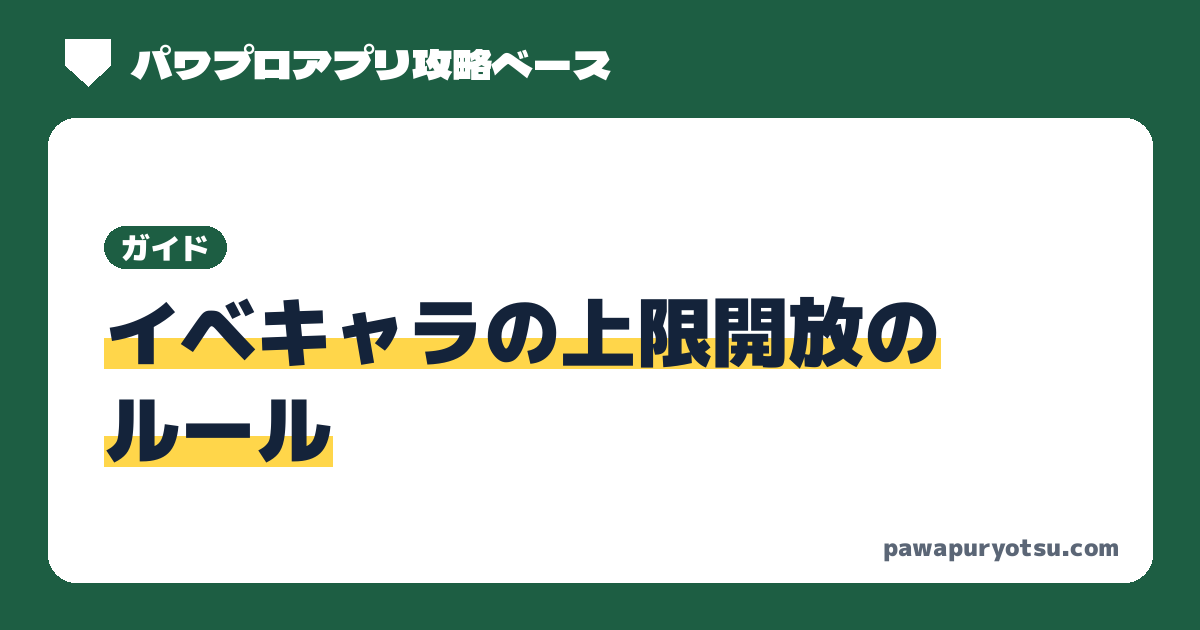
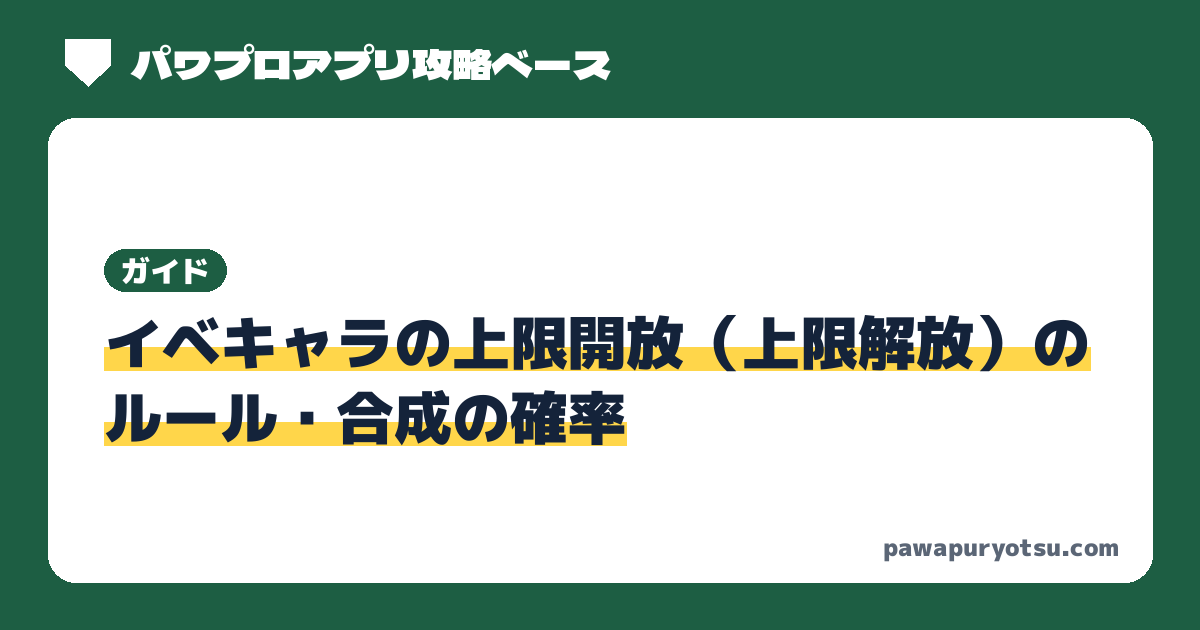
デッキページのタイトルに【○月最新】、上限開放ページのタイトルに「上限解放」
Search Consoleでデッキ系の検索のクリック率が低く、上限開放ページは「上限解放」で検索されていたため。
【○月最新】はいちばん新しいデッキの日付の月を自動で入れる。

Claude-Session: https://claude.ai/code/session_019YJeSy1JHzrrLH19o4aZd4

Changed region(s): [[0.0617, 0.3317, 0.925, 0.754]]

diff --git a/docs/guide/limit_break/index.html b/docs/guide/limit_break/index.html
@@ -4,13 +4,13 @@
 <meta charset="utf-8">
 <meta name="viewport" content="width=device-width,initial-scale=1,viewport-fit=cover">
 <meta name="color-scheme" content="light">
-<title>イベキャラの上限開放のルール｜パワプロアプリ攻略ベース</title>
-<meta name="description" content="パワプロアプリのイベキャラの上限開放のルールをまとめました。SR・PSRのLv上限と、素材のレアリティ・上限開放の数ごとの合成の確率を一覧で掲載。">
+<title>イベキャラの上限開放（上限解放）のルール・合成の確率｜パワプロアプリ攻略ベース</title>
+<meta name="description" content="パワプロアプリのイベキャラの上限開放（上限解放）のルールをまとめました。SR・PSRのLv上限と、素材のレアリティ・上限開放の数ごとの合成の確率を一覧で掲載。">
 <link rel="canonical" href="https://pawapuryotsu.com/guide/limit_break/">
 <meta property="og:type" content="website">
 <meta property="og:site_name" content="パワプロアプリ攻略ベース">
-<meta property="og:title" content="イベキャラの上限開放のルール｜パワプロアプリ攻略ベース">
-<meta property="og:description" content="パワプロアプリのイベキャラの上限開放のルールをまとめました。SR・PSRのLv上限と、素材のレアリティ・上限開放の数ごとの合成の確率を一覧で掲載。">
+<meta property="og:title" content="イベキャラの上限開放（上限解放）のルール・合成の確率｜パワプロアプリ攻略ベース">
+<meta property="og:description" content="パワプロアプリのイベキャラの上限開放（上限解放）のルールをまとめました。SR・PSRのLv上限と、素材のレアリティ・上限開放の数ごとの合成の確率を一覧で掲載。">
 <meta property="og:url" content="https://pawapuryotsu.com/guide/limit_break/">
 <meta property="og:image" content="https://pawapuryotsu.com/img/og/guide_limit_break.png">
 <meta property="og:image:width" content="1200">
@@ -29,7 +29,7 @@
 <script async src="https://pagead2.googlesyndication.com/pagead/js/adsbygoogle.js?client=ca-pub-8546020269968696" crossorigin="anonymous"></script>
 <script async src="https://www.googletagmanager.com/gtag/js?id=G-F98XGNW3LS"></script>
 <script>window.dataLayer=window.dataLayer||[];function gtag(){dataLayer.push(arguments)}gtag('js',new Date());gtag('config','G-F98XGNW3LS');</script><meta name="google-site-verification" content="ZgxID967oum-2Mm1F5BCX9gvQE_vNl2ZDbXXWfyYP10" />
-<script type="application/ld+json">{"@context": "https://schema.org", "@type": "BreadcrumbList", "itemListElement": [{"@type": "ListItem", "position": 1, "name": "トップ", "item": "https://pawapuryotsu.com/"}, {"@type": "ListItem", "position": 2, "name": "イベキャラの上限開放のルール", "item": "https://pawapuryotsu.com/guide/limit_break/"}]}</script>
+<script type="application/ld+json">{"@context": "https://schema.org", "@type": "BreadcrumbList", "itemListElement": [{"@type": "ListItem", "position": 1, "name": "トップ", "item": "https://pawapuryotsu.com/"}, {"@type": "ListItem", "position": 2, "name": "イベキャラの上限開放（上限解放）のルール・合成の確率", "item": "https://pawapuryotsu.com/guide/limit_break/"}]}</script>
 </head>
 <body data-root="../../">
 <svg width="0" height="0" style="position:absolute" aria-hidden="true">
@@ -54,7 +54,7 @@
 </div></header>
 
 <main><div class="wrap" id="page">
-<nav class="crumbs" aria-label="パンくずリスト"><ol><li><a href="../../">トップ</a></li><li aria-current="page">イベキャラの上限開放のルール</li></ol></nav>
+<nav class="crumbs" aria-label="パンくずリスト"><ol><li><a href="../../">トップ</a></li><li aria-current="page">イベキャラの上限開放（上限解放）のルール・合成の確率</li></ol></nav>
 <section class="phead"><p class="eyebrow">ガイド</p><h1><span class="mk"><i>上限開放のルール</i></span></h1><p>イベキャラの上限開放のしくみと、合成したときの確率を一覧にまとめました。</p></section>
 <div class="prose">
   <nav class="toc" aria-label="このページの目次">

diff --git a/docs/decks/roman/index.html b/docs/decks/roman/index.html
@@ -4,12 +4,12 @@
 <meta charset="utf-8">
 <meta name="viewport" content="width=device-width,initial-scale=1,viewport-fit=cover">
 <meta name="color-scheme" content="light">
-<title>ロマン開花学園（學園）のおすすめ投手デッキ8選｜パワプロアプリ攻略ベース</title>
+<title>ロマン開花学園（學園）のおすすめ投手デッキ8選【11月最新】｜パワプロアプリ攻略ベース</title>
 <meta name="description" content="パワプロアプリのサクセス「ロマン開花學園（ロマン開花学園）」で実際に使った投手向けデッキまとめ。育成結果（選手ランク・総経験点）、メイン・サポートデッキ、得意練習・練習効果・タッグボーナス、育成のポイントを掲載。">
 <link rel="canonical" href="https://pawapuryotsu.com/decks/roman/">
 <meta property="og:type" content="website">
 <meta property="og:site_name" content="パワプロアプリ攻略ベース">
-<meta property="og:title" content="ロマン開花学園（學園）のおすすめ投手デッキ8選｜パワプロアプリ攻略ベース">
+<meta property="og:title" content="ロマン開花学園（學園）のおすすめ投手デッキ8選【11月最新】｜パワプロアプリ攻略ベース">
 <meta property="og:description" content="パワプロアプリのサクセス「ロマン開花學園（ロマン開花学園）」で実際に使った投手向けデッキまとめ。育成結果（選手ランク・総経験点）、メイン・サポートデッキ、得意練習・練習効果・タッグボーナス、育成のポイントを掲載。">
 <meta property="og:url" content="https://pawapuryotsu.com/decks/roman/">
 <meta property="og:image" content="https://pawapuryotsu.com/img/og/decks_roman.png">

diff --git a/docs/decks/andromeda/index.html b/docs/decks/andromeda/index.html
@@ -4,12 +4,12 @@
 <meta charset="utf-8">
 <meta name="viewport" content="width=device-width,initial-scale=1,viewport-fit=cover">
 <meta name="color-scheme" content="light">
-<title>アンドロメダ学園のおすすめ野手デッキ11選｜パワプロアプリ攻略ベース</title>
+<title>アンドロメダ学園のおすすめ野手デッキ11選【11月最新】｜パワプロアプリ攻略ベース</title>
 <meta name="description" content="パワプロアプリのサクセス「アンドロメダ学園」で実際に使った野手向けデッキまとめ。育成結果（選手ランク・総経験点）、メイン・サポートデッキ、コツイベントボーナス・試合経験点ボーナス、育成のポイントを掲載。">
 <link rel="canonical" href="https://pawapuryotsu.com/decks/andromeda/">
 <meta property="og:type" content="website">
 <meta property="og:site_name" content="パワプロアプリ攻略ベース">
-<meta property="og:title" content="アンドロメダ学園のおすすめ野手デッキ11選｜パワプロアプリ攻略ベース">
+<meta property="og:title" content="アンドロメダ学園のおすすめ野手デッキ11選【11月最新】｜パワプロアプリ攻略ベース">
 <meta property="og:description" content="パワプロアプリのサクセス「アンドロメダ学園」で実際に使った野手向けデッキまとめ。育成結果（選手ランク・総経験点）、メイン・サポートデッキ、コツイベントボーナス・試合経験点ボーナス、育成のポイントを掲載。">
 <meta property="og:url" content="https://pawapuryotsu.com/decks/andromeda/">
 <meta property="og:image" content="https://pawapuryotsu.com/img/og/decks_andromeda.png">

diff --git a/src/pages/guide-limit_break.html b/src/pages/guide-limit_break.html
@@ -1,6 +1,6 @@
 <!--
-title: イベキャラの上限開放のルール｜パワプロアプリ攻略ベース
-description: パワプロアプリのイベキャラの上限開放のルールをまとめました。SR・PSRのLv上限と、素材のレアリティ・上限開放の数ごとの合成の確率を一覧で掲載。
+title: イベキャラの上限開放（上限解放）のルール・合成の確率｜パワプロアプリ攻略ベース
+description: パワプロアプリのイベキャラの上限開放（上限解放）のルールをまとめました。SR・PSRのLv上限と、素材のレアリティ・上限開放の数ごとの合成の確率を一覧で掲載。
 path: guide/limit_break/
 nav: about
 -->

diff --git a/src/pages/roman.html b/src/pages/roman.html
@@ -1,5 +1,5 @@
 <!--
-title: ロマン開花学園（學園）のおすすめ投手デッキ{{deck_count_roman}}選｜パワプロアプリ攻略ベース
+title: ロマン開花学園（學園）のおすすめ投手デッキ{{deck_count_roman}}選{{deck_month_roman}}｜パワプロアプリ攻略ベース
 crumb: ロマン開花學園のデッキまとめ（投手向け）
 description: パワプロアプリのサクセス「ロマン開花學園（ロマン開花学園）」で実際に使った投手向けデッキまとめ。育成結果（選手ランク・総経験点）、メイン・サポートデッキ、得意練習・練習効果・タッグボーナス、育成のポイントを掲載。
 path: decks/roman/

diff --git a/src/pages/andromeda.html b/src/pages/andromeda.html
@@ -1,5 +1,5 @@
 <!--
-title: アンドロメダ学園のおすすめ野手デッキ{{deck_count_andromeda}}選｜パワプロアプリ攻略ベース
+title: アンドロメダ学園のおすすめ野手デッキ{{deck_count_andromeda}}選{{deck_month_andromeda}}｜パワプロアプリ攻略ベース
 crumb: アンドロメダ学園のデッキまとめ（野手向け）
 description: パワプロアプリのサクセス「アンドロメダ学園」で実際に使った野手向けデッキまとめ。育成結果（選手ランク・総経験点）、メイン・サポートデッキ、コツイベントボーナス・試合経験点ボーナス、育成のポイントを掲載。
 path: decks/andromeda/

diff --git a/build.py b/build.py
@@ -378,6 +378,9 @@ for meta, body in _parsed:
     # トップのランキングカードの評価日は、ランキングページ（src/ranking/ranking.json）の評価日を自動で使う（管理人指示 2026-11-10）。{{rk_date_roman}} など
     for _k, _d in DECKS.items():   # デッキページの title の「○選」（デッキの数。自動）
         rep["deck_count_" + _k] = str(len(_d["list"]))
+        # title の「【○月最新】」：いちばん新しいデッキの日付（date）の月（自動。2026-11-20 管理人OK）
+        _dates = [x.get("date", "") for x in _d["list"] if x.get("date")]
+        rep["deck_month_" + _k] = f"【{int(max(_dates)[5:7])}月最新】" if _dates else ""
     for _k, _r in charpages._RANKING.get("ranking", {}).items():
         rep["rk_date_" + _k] = f'【評価日{_r["評価日"]}】' if _r.get("評価日") else ""
     if meta.get("school") in DECKS:
